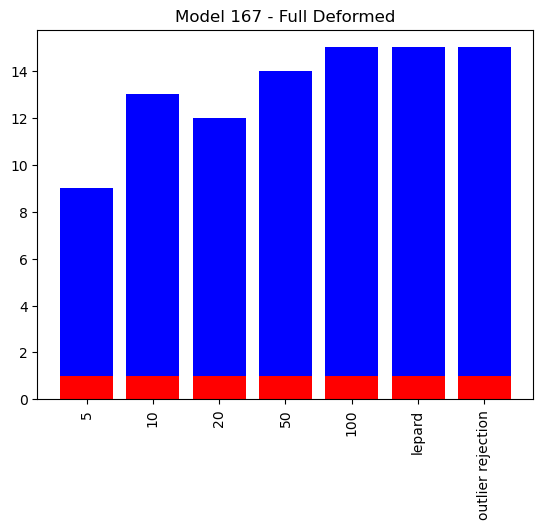
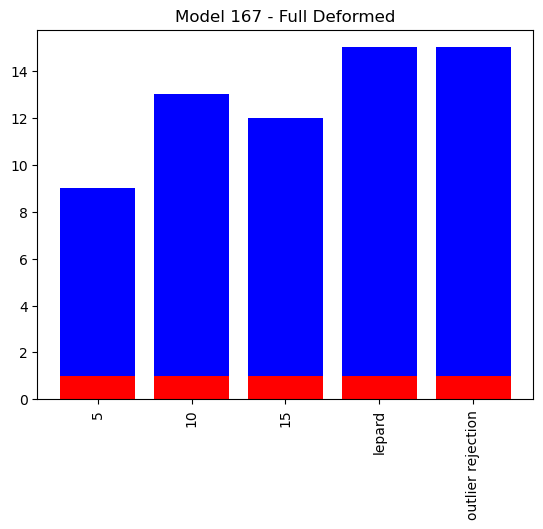
using kpfcn partial deformed

diff --git a/Testing/custom_filtering/aggregate_data_custom_filtering_true_correspondence_ratio.py b/Testing/custom_filtering/aggregate_data_custom_filtering_true_correspondence_ratio.py
@@ -16,7 +16,7 @@ if preprocessing == 'mutual':
         'kpfcn' : {
             'full_deformed' : {
                 'conf' : '0.000001',
-                'nc' : [5, 10, 20, 50, 100]
+                'nc' : [5, 10, 15]
             }
         #    'partial_deformed' : '0.000001'
         },
@@ -279,10 +279,11 @@ for data_type in data_types:
                 plt.xticks(modified_nc_pos, modified_nc, rotation=90)
                 plt.savefig('Testing/custom_filtering/' + data_type.replace(' ', '_') + '_pre_' + preprocessing + '_max_ldmks_' + max_ldmks + '_c_' + confidence + '_adm_' + str(adm[0]) + '_iot_' + str(iot[0]) + '_s_' + sampling + '_' + feature_extractor + '_td_' + training_data + '_varying_nc_gt_ratio_model_' + model_number + '.png', bbox_inches='tight')
             
-    plt.clf()
+    
     for feature_extractor in weights:
         for training_data in weights[feature_extractor]:
             
+            plt.clf()
             nc = weights[feature_extractor][training_data]['nc']
             modified_nc = [str(nc_v) for nc_v in nc]
             modified_nc.append('lepard')
